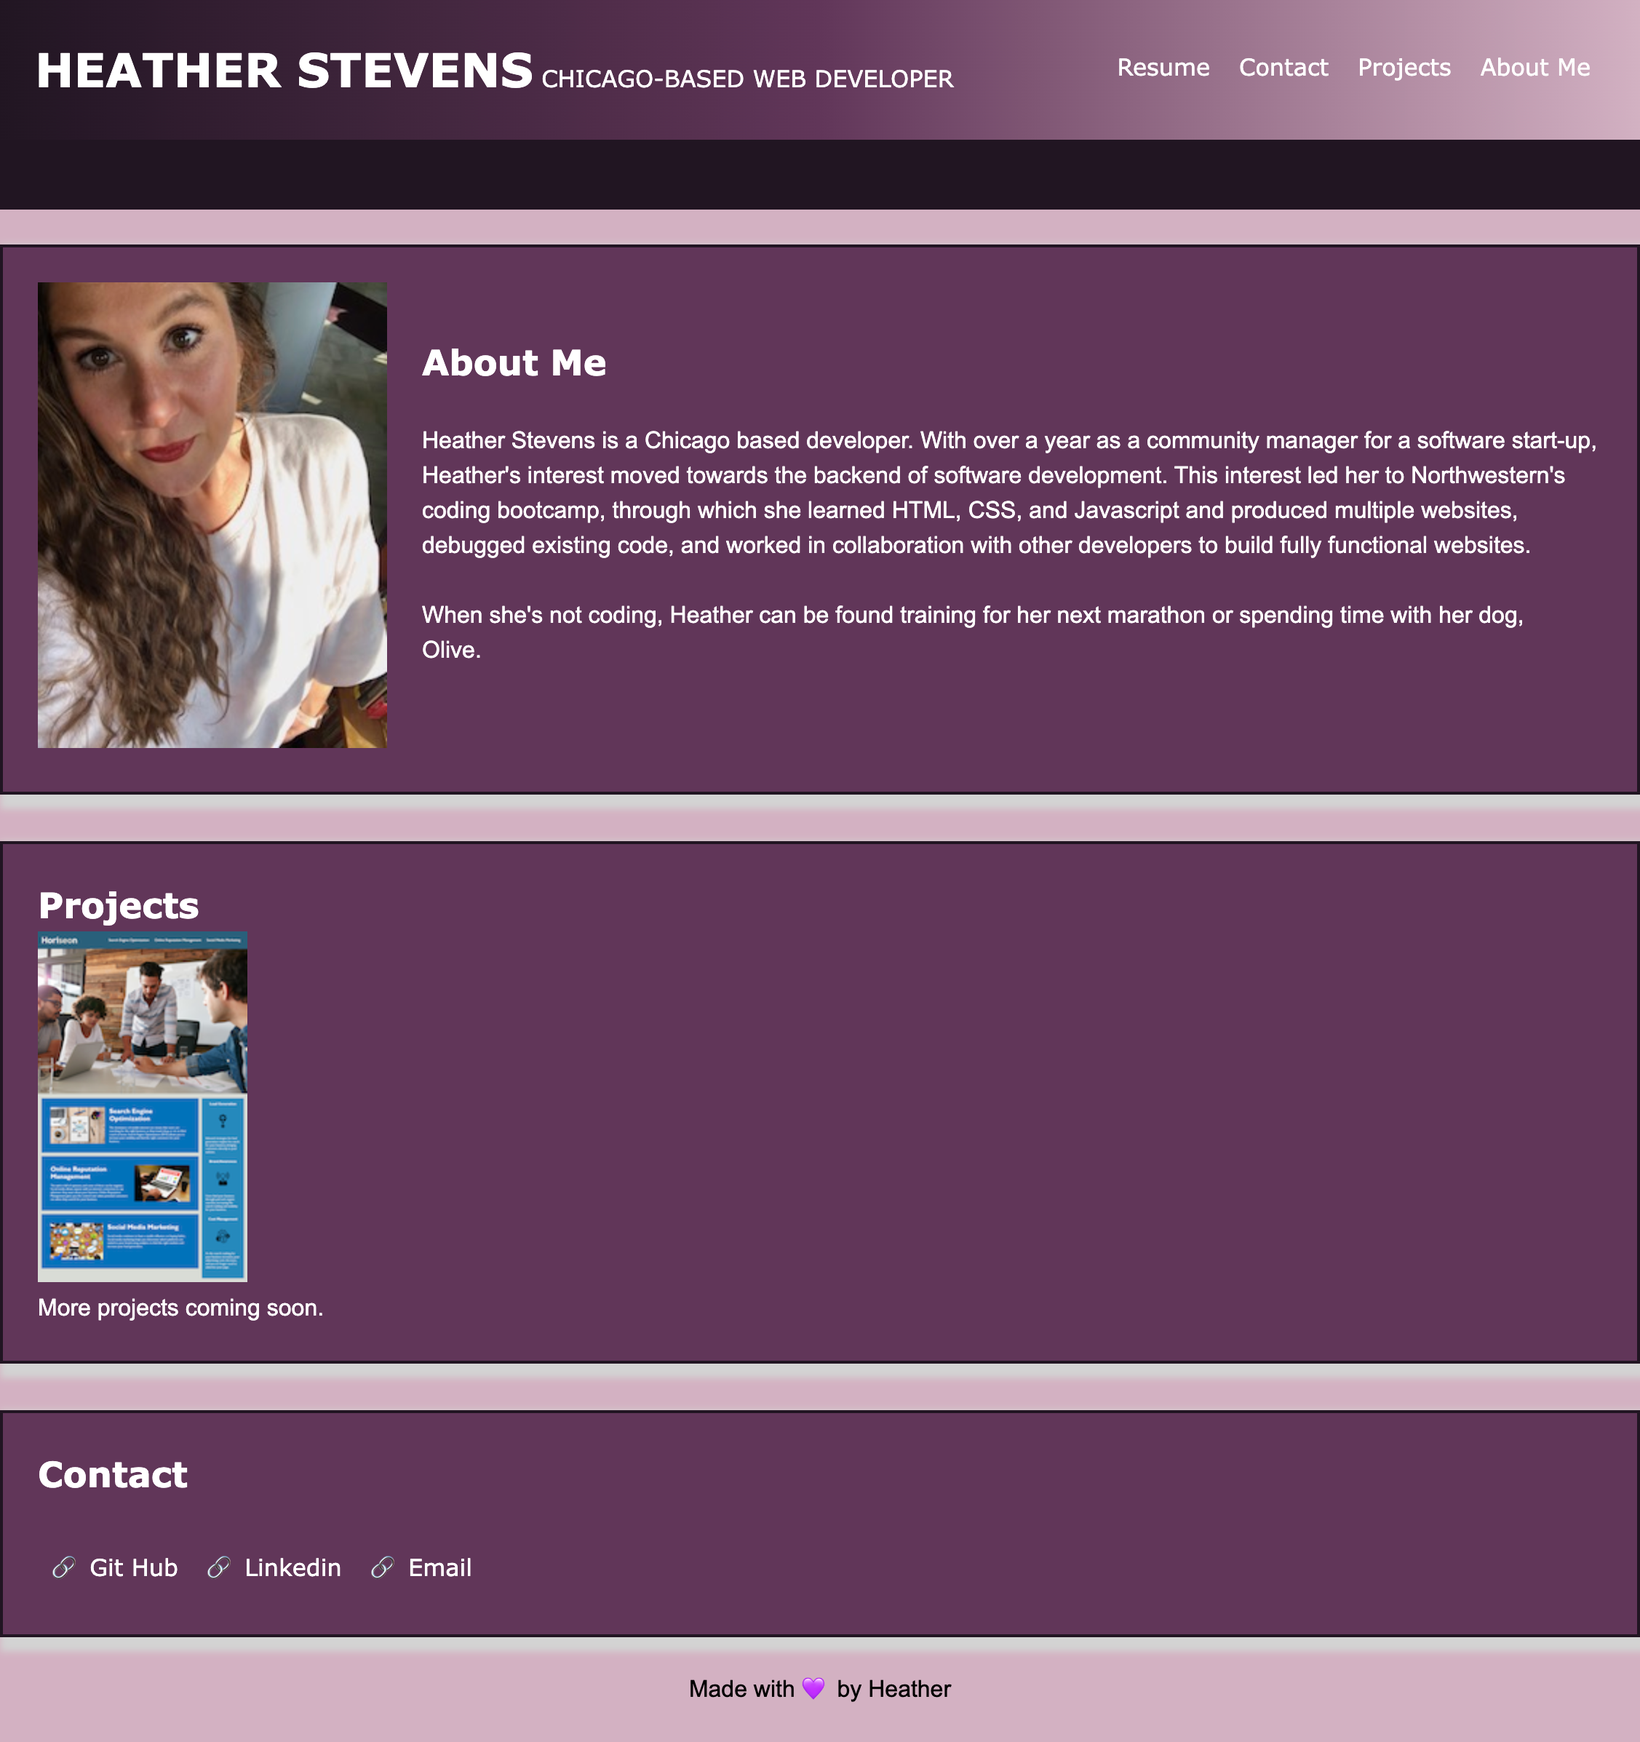
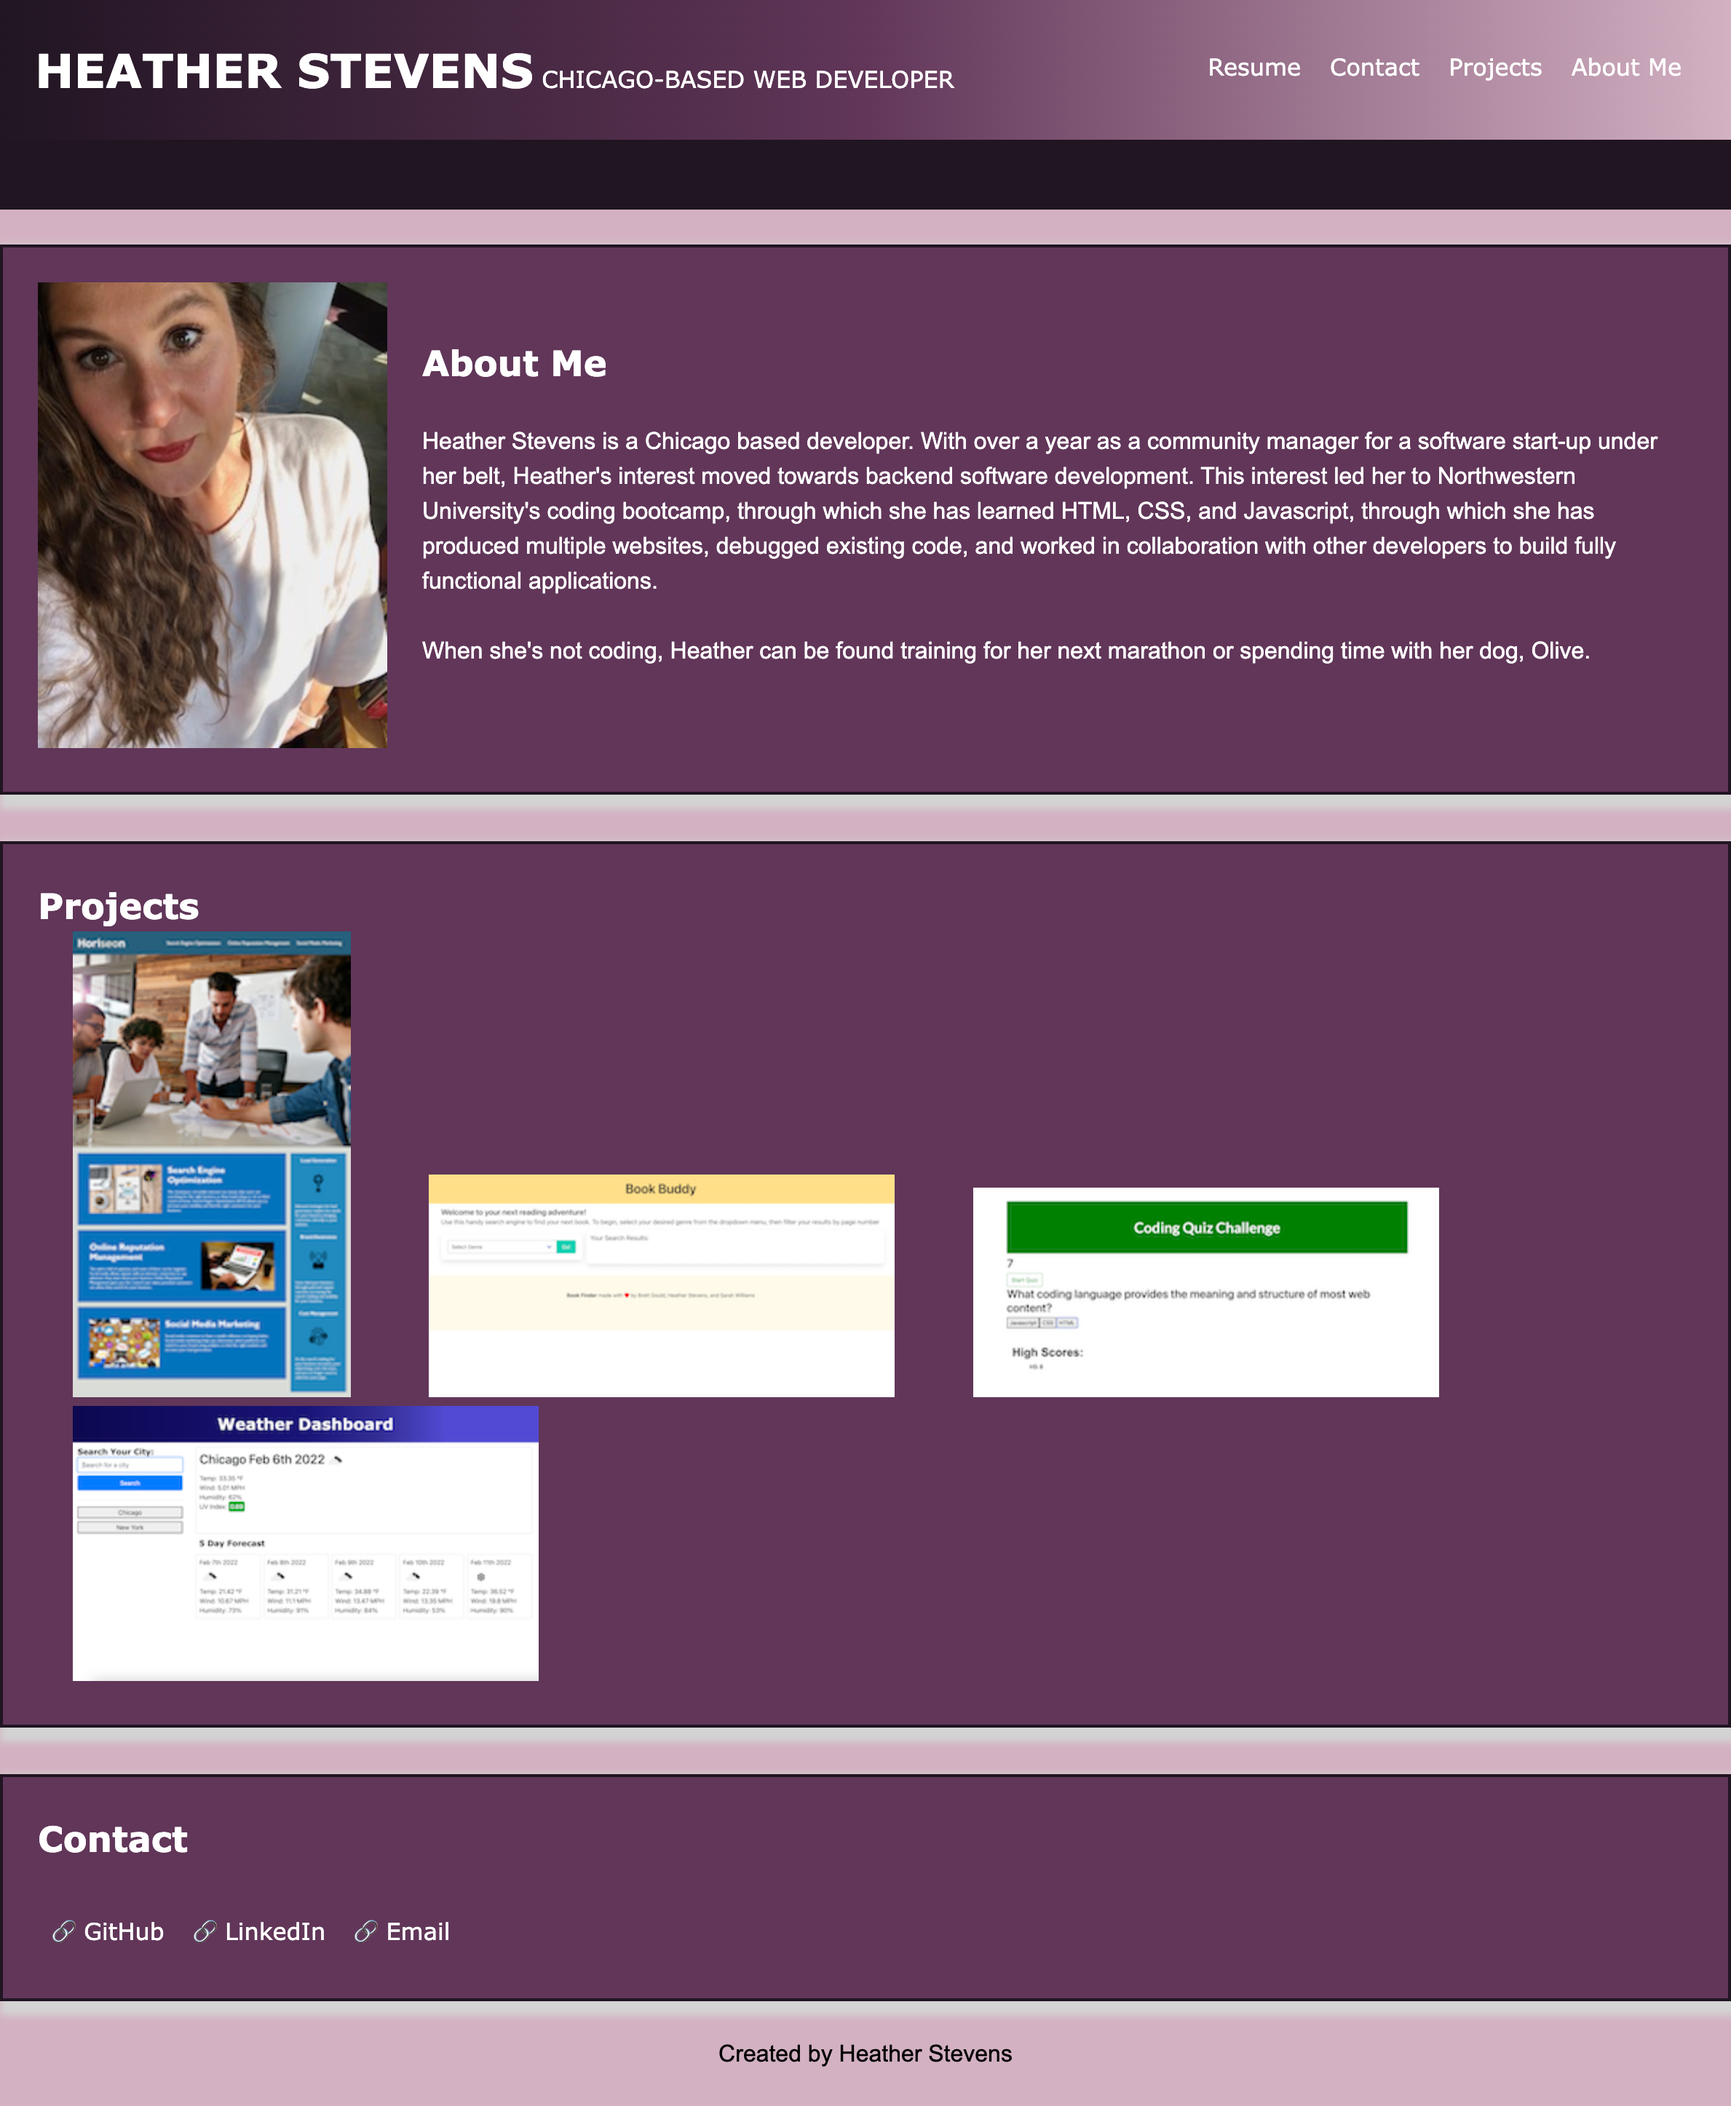
updated screenshot and edited readme

diff --git a/README.md b/README.md
@@ -8,7 +8,7 @@ Upon clicking the portfolio link, a user will be taken to my developer portfolio
 
 To the right of my name is the responsive navigation menu. This navigation menu allows the user to easily jump to any section of the website with one click. When the user clicks "Resume" they will be taken to a PDF of my developer resume. All other navigation elements will jump to an aptly named section on the webpage.
 
-When a user click on the section entitled "Projects", they will be taken to a photo of a recently designed website. Upon hover, the picture gets a bit larger. Upon clicking on the image, users will be taken to the webpage itself. More projects will be added to this section as my portfolio grows.
+When a user click on the section entitled "Projects", they will be taken to a photo of four recently designed websites and applications. Upon hover, the picture gets a bit larger. Upon clicking on the image, the website or application will open in a new tab.
 
 When the user resizes their browser window, the site is responsive and all the elements remain active. The elements on the webpage will adapt to the user's viewport.
 
